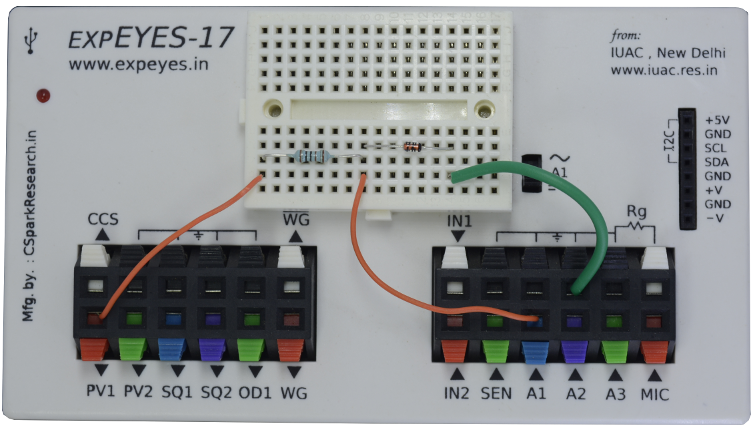
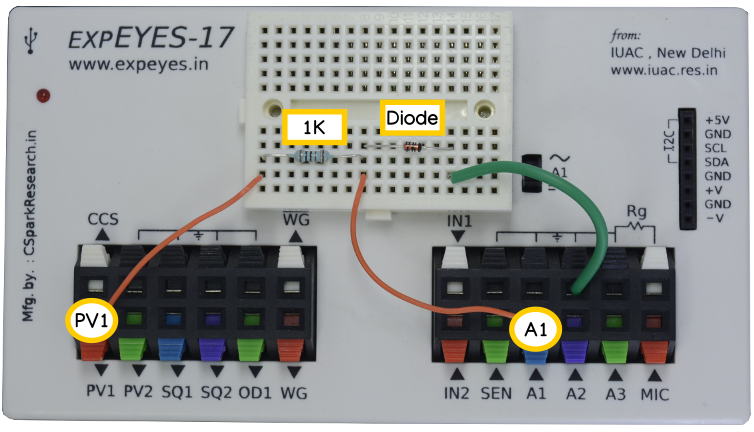
edited the diode connection photo

Changed region(s): [[0.366, 0.2106, 0.6101, 0.3611], [0.6711, 0.6921, 0.7626, 0.8125], [0.061, 0.6921, 0.183, 0.8125]]

diff --git a/_posts/2019-06-08-sound-velocity.md b/_posts/2019-06-08-sound-velocity.md
@@ -42,7 +42,6 @@ For  half wavelength the phase difference is 180 degree. A connection diagram is
 
 {% include youtube.html title="Tutorial by Khan Academy" id="UgE2GIQwUCw" %}
 
-
 ### Screenshot
 
 The microphone-piezo distance is adjusted such that the two waveforms are in phase(overlapping) . The exact phase difference is also calculated

diff --git a/_posts/2019-05-02-lissajous.md b/_posts/2019-05-02-lissajous.md
@@ -9,8 +9,8 @@ show-toc: true
 tags: [Capacitor,Resistor,RC,steady state,Electrical]
 pins: [WG,A1,A2]
 category: [expeyes17, electrical]
+math: true
 ---
-
 
 ## Quick Start
 
